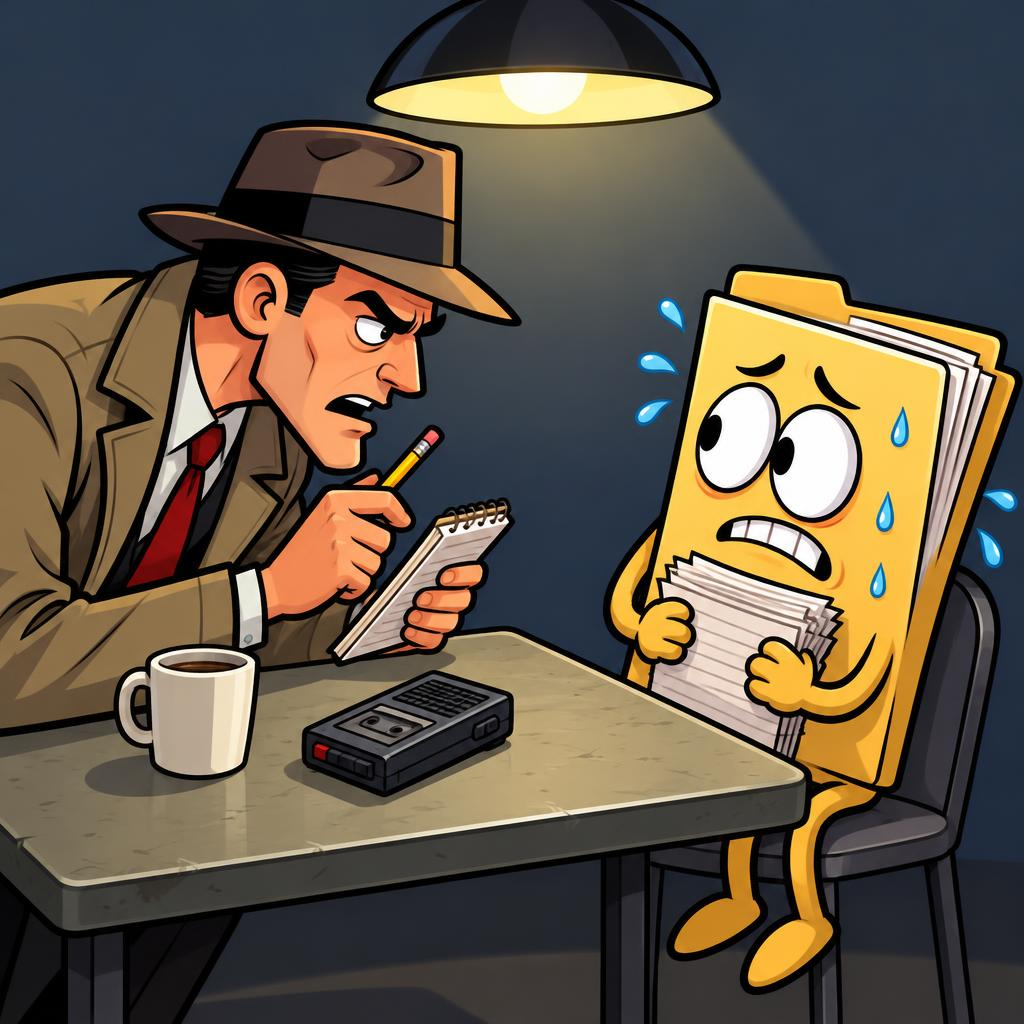
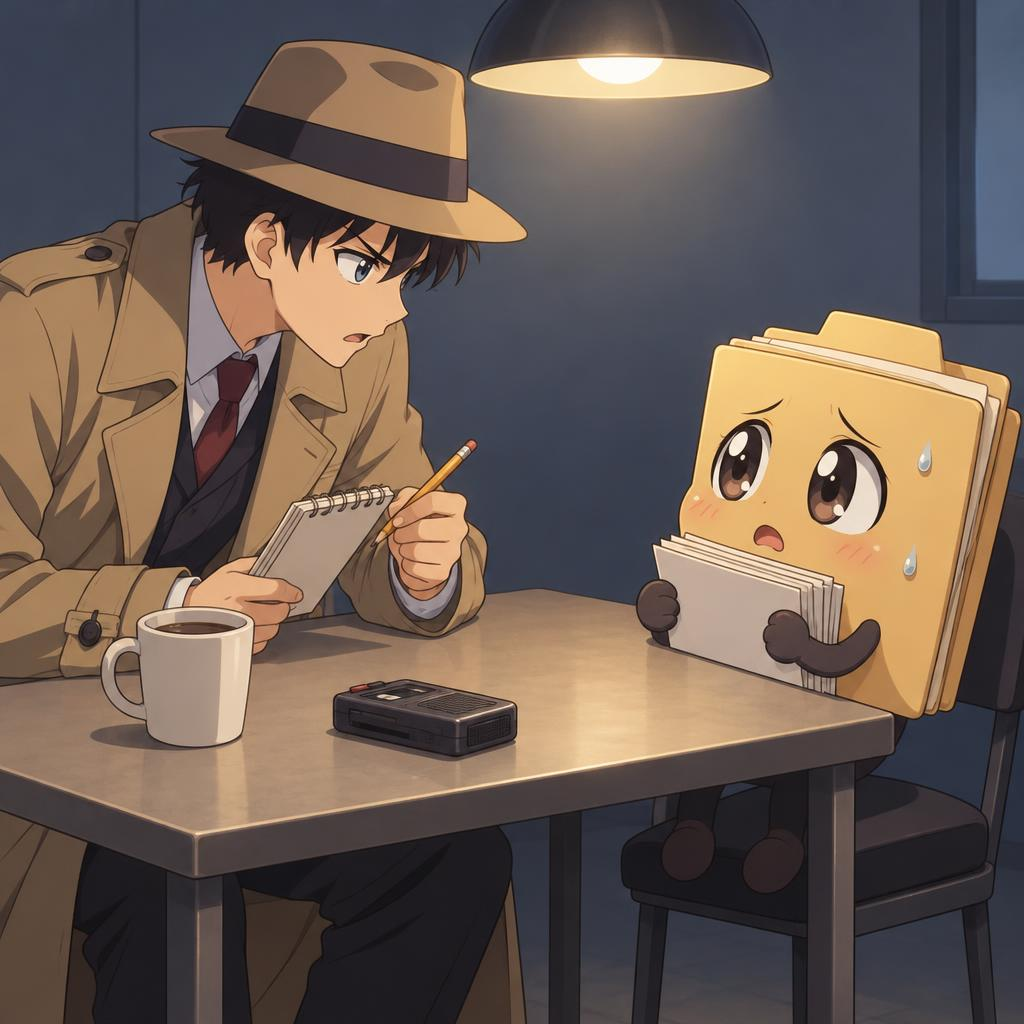
Day 16 deck: top-aligned titles, Honor Code joke, anime figures on slides 11-12
- Content slides now start at the top, so every title sits at the
  same height (the theme centers content vertically by default)
- Root beer slide: 'know if it's going to send you to the Honor
  Code Office' replaces the Word of Wisdom line
- Anime-style redraws of the melodrama figure (Data, the map, on the
  tracks) and the interrogation divider; prompts in week09.json

diff --git a/slides/day-16/metadata.md b/slides/day-16/metadata.md
@@ -4,6 +4,7 @@ theme: cce114
 paginate: true
 footer: "CCE 114 · Day 16 — Metadata"
 style: |
+  section:not(.lead) { align-content: start; }
   .sub { color: #6b7a90; font-size: 0.78em; font-style: italic; margin: -0.55em 0 0.6em; }
   .six { color: #c8102e; font-weight: 800; }
   .ask { font-size: 1.15em; font-weight: 700; color: #002e5d; }
@@ -154,7 +155,7 @@ By the end of class you should be able to:
 
 - What's different?
 - **Metadata!**
-- Same bottle. The label says it is root beer, not beer: what is in it, who brewed it, and enough to know it fits the Word of Wisdom
+- Same bottle. The label says it is root beer, not beer: what is in it, who brewed it, and enough to know if it's going to send you to the Honor Code Office
 
 </div>
 </div>
@@ -306,7 +307,7 @@ By the end of class you should be able to:
 </div>
 </div>
 
-<!-- At this point gather nine volunteers and hand out the papers. The spatial data actor gets all of the "spatial data" sheets; everyone else gets just one sheet. The cast is Data, the villains Unreliability and Irrelevance, and the six heroes What, Where, When, Why, How, and Who; the full script and run notes are on the Week 9 activity page (docs/activities/week-09.md). The rest of the class follows along at t.ly/rPYx. Lead the applause. The melodrama introduces the six questions; the divider that follows names them formally. Quiz 7 has a question on the melodrama. The illustration is the hero, Metadata, tied to the tracks by the villain. -->
+<!-- At this point gather nine volunteers and hand out the papers. The spatial data actor gets all of the "spatial data" sheets; everyone else gets just one sheet. The cast is Data, the villains Unreliability and Irrelevance, and the six heroes What, Where, When, Why, How, and Who; the full script and run notes are on the Week 9 activity page (docs/activities/week-09.md). The rest of the class follows along at t.ly/rPYx. Lead the applause. The melodrama introduces the six questions; the divider that follows names them formally. Quiz 7 has a question on the melodrama. The anime-style illustration (gpt-image-2.5-flare, October 2026; prompt in tools/divider-images/week09.json) shows Data, the map, tied to the tracks by the villain while a hero rushes in. -->
 
 
 ---
